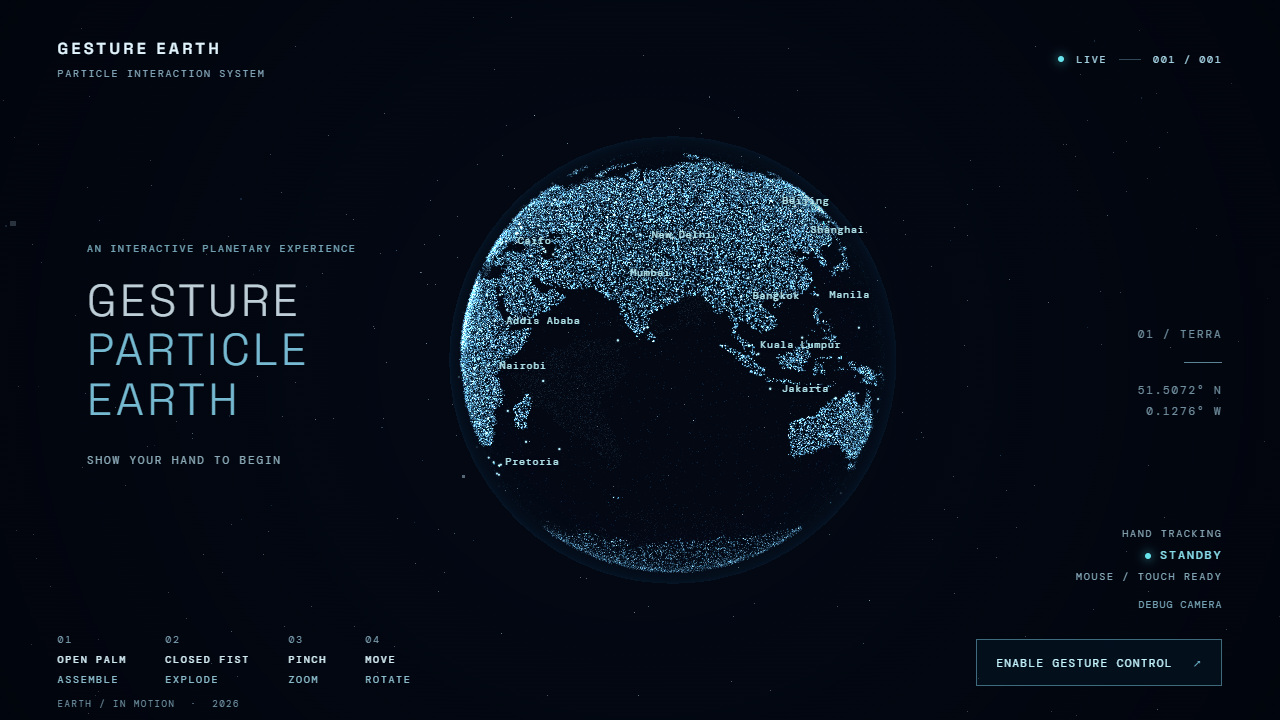
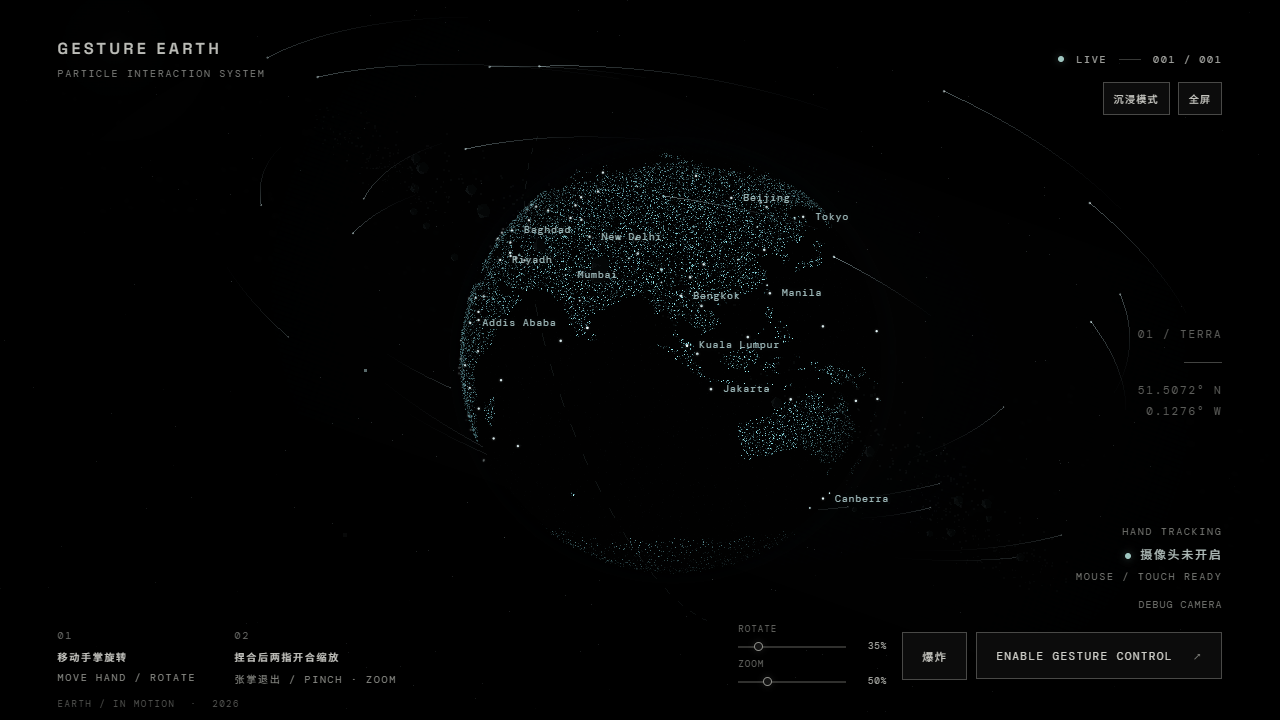
Refresh preview and invite feedback

diff --git a/README.md b/README.md
@@ -93,9 +93,9 @@ Push this repository to GitHub with `main` as the default branch. In repository 
 
 ## Feedback / 欢迎建议
 
-After making the repository public, enable GitHub Discussions for ideas about visual detail, gesture usability, accessibility, and performance. Use Issues for reproducible bugs; include browser, device, steps to reproduce, and a screenshot if helpful. Do not upload webcam footage or private data.
+Share ideas about visual detail, gesture usability, accessibility, and performance in [Discussions](https://github.com/wujixi97-wjx/gesture-particle-earth/discussions). Use Issues for reproducible bugs; include browser, device, steps to reproduce, and a screenshot if helpful. Do not upload webcam footage or private data.
 
-公开仓库后，可在 GitHub Discussions 讨论视觉细节、手势易用性、无障碍和性能；可复现的问题请发到 Issues，并附浏览器、设备与复现步骤。请勿上传摄像头画面或私人信息。
+欢迎在 [Discussions](https://github.com/wujixi97-wjx/gesture-particle-earth/discussions) 讨论视觉细节、手势易用性、无障碍和性能；可复现的问题请发到 Issues，并附浏览器、设备与复现步骤。请勿上传摄像头画面或私人信息。
 
 ## Asset provenance / 资源来源
 
